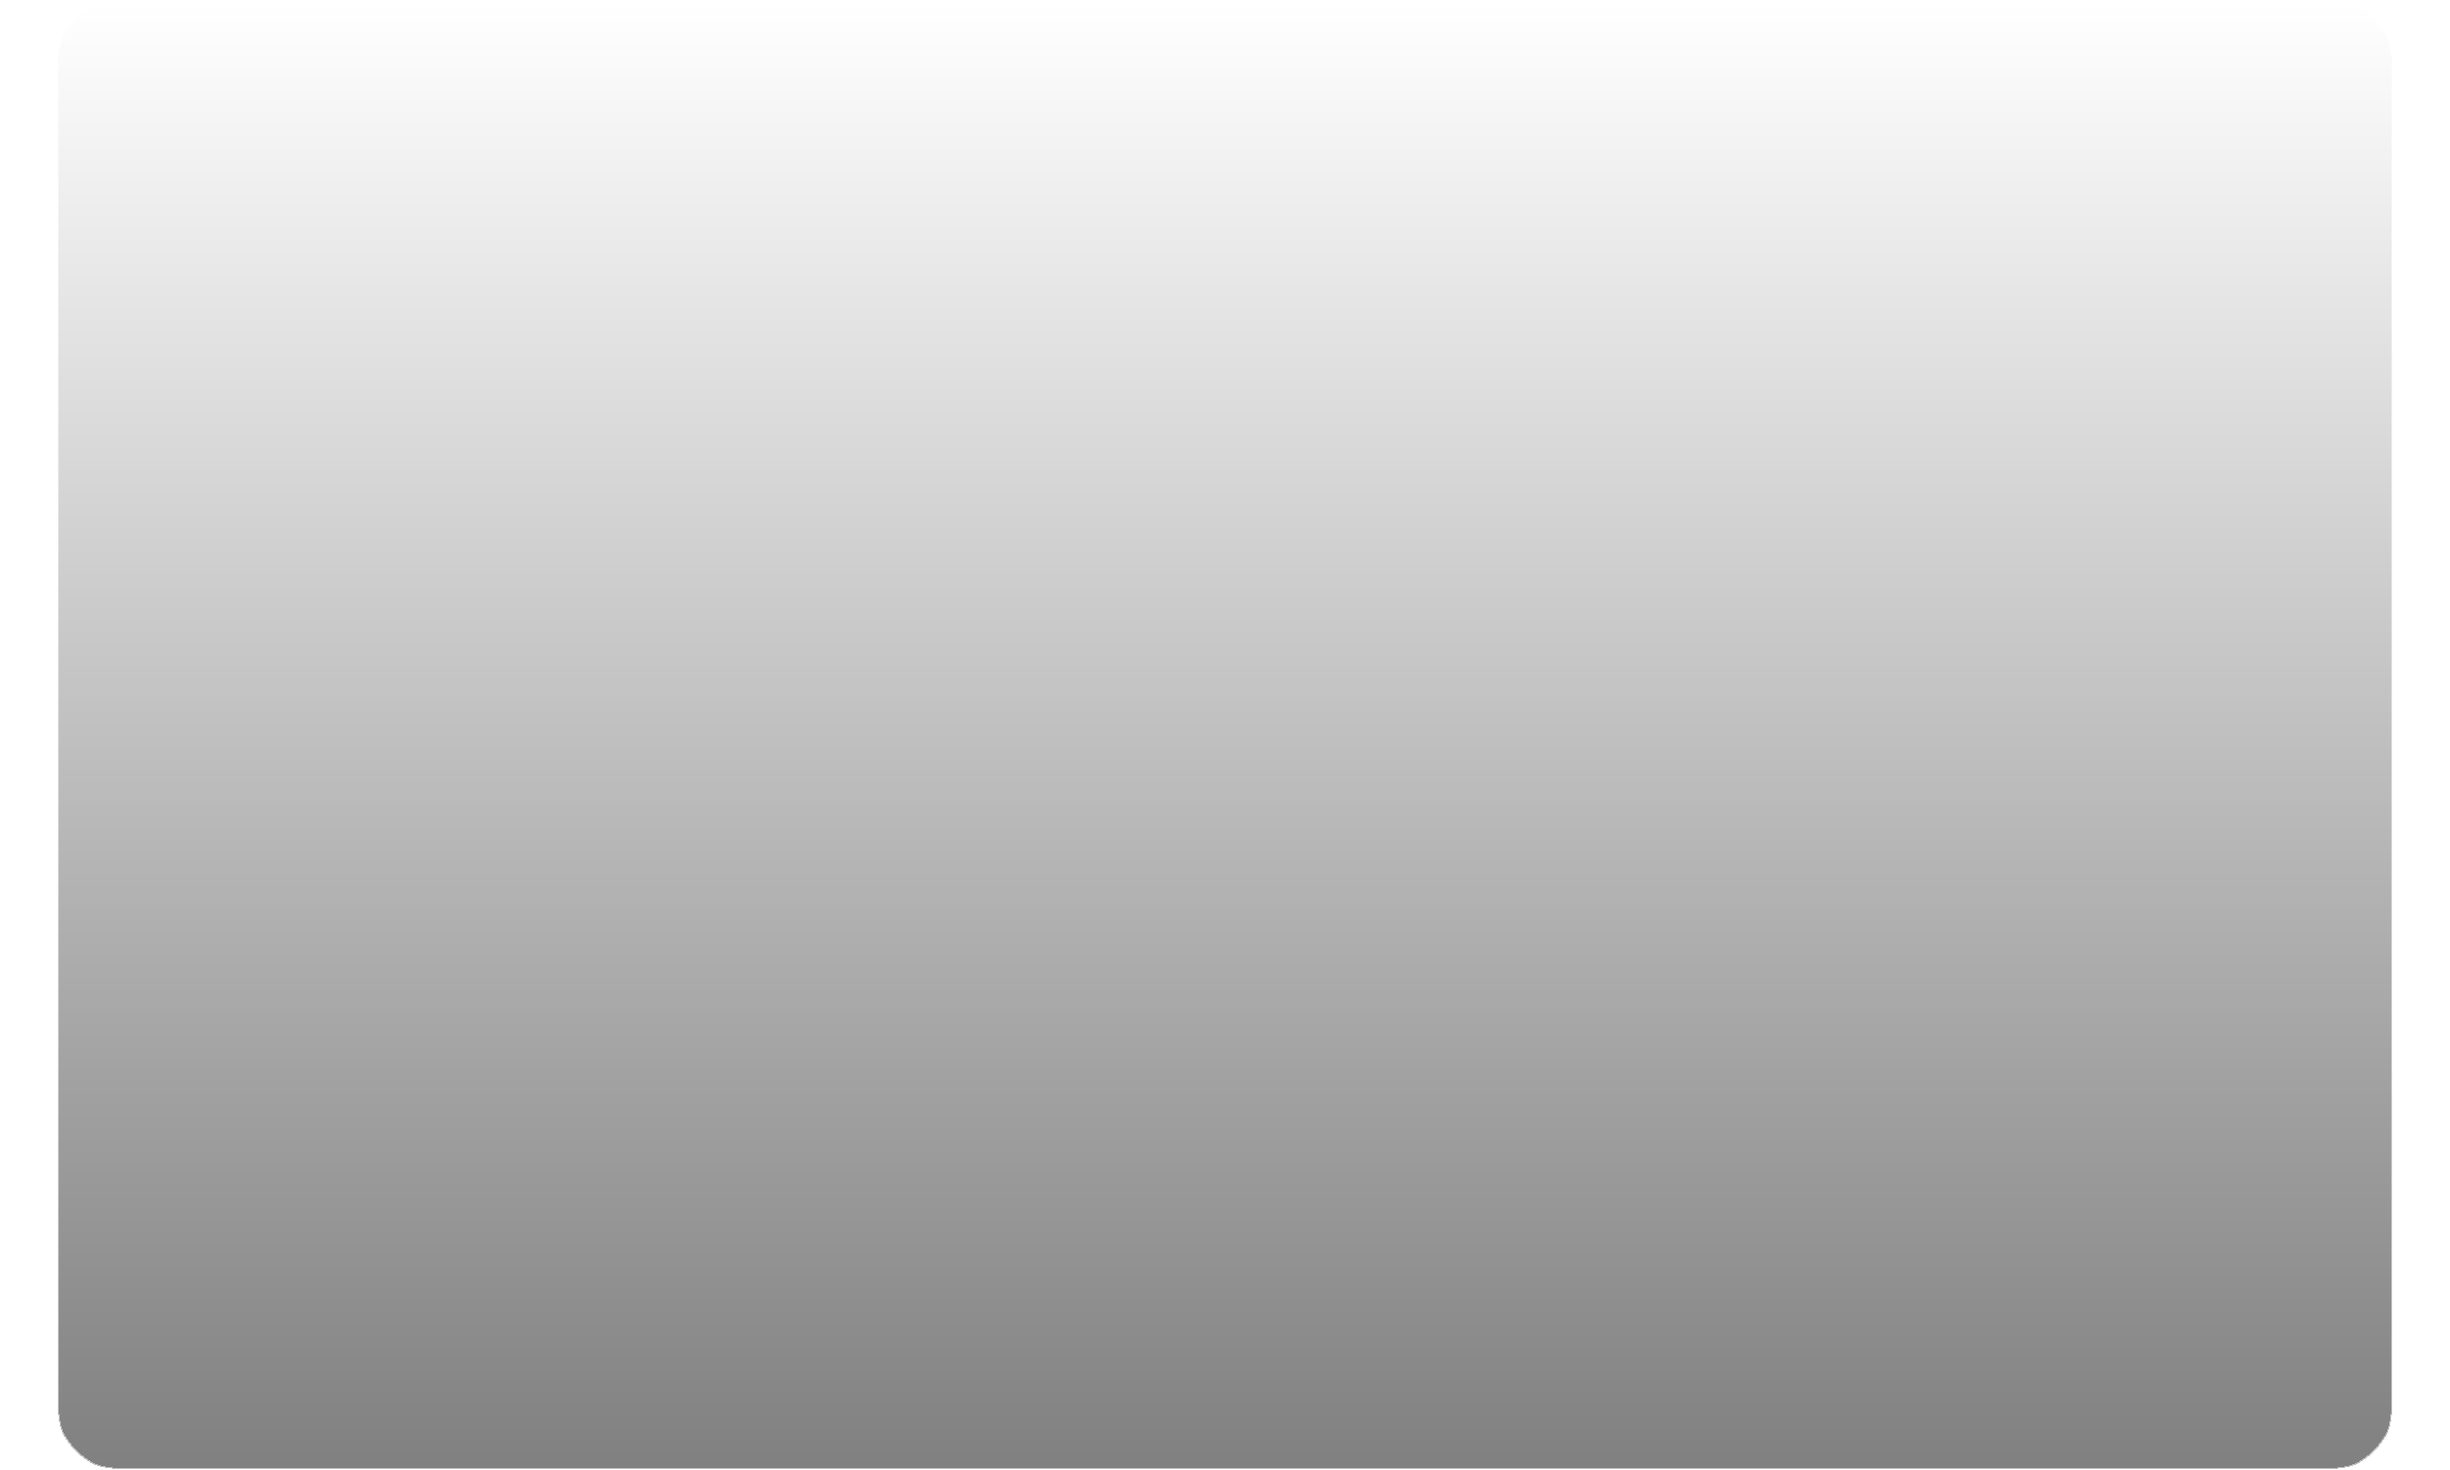
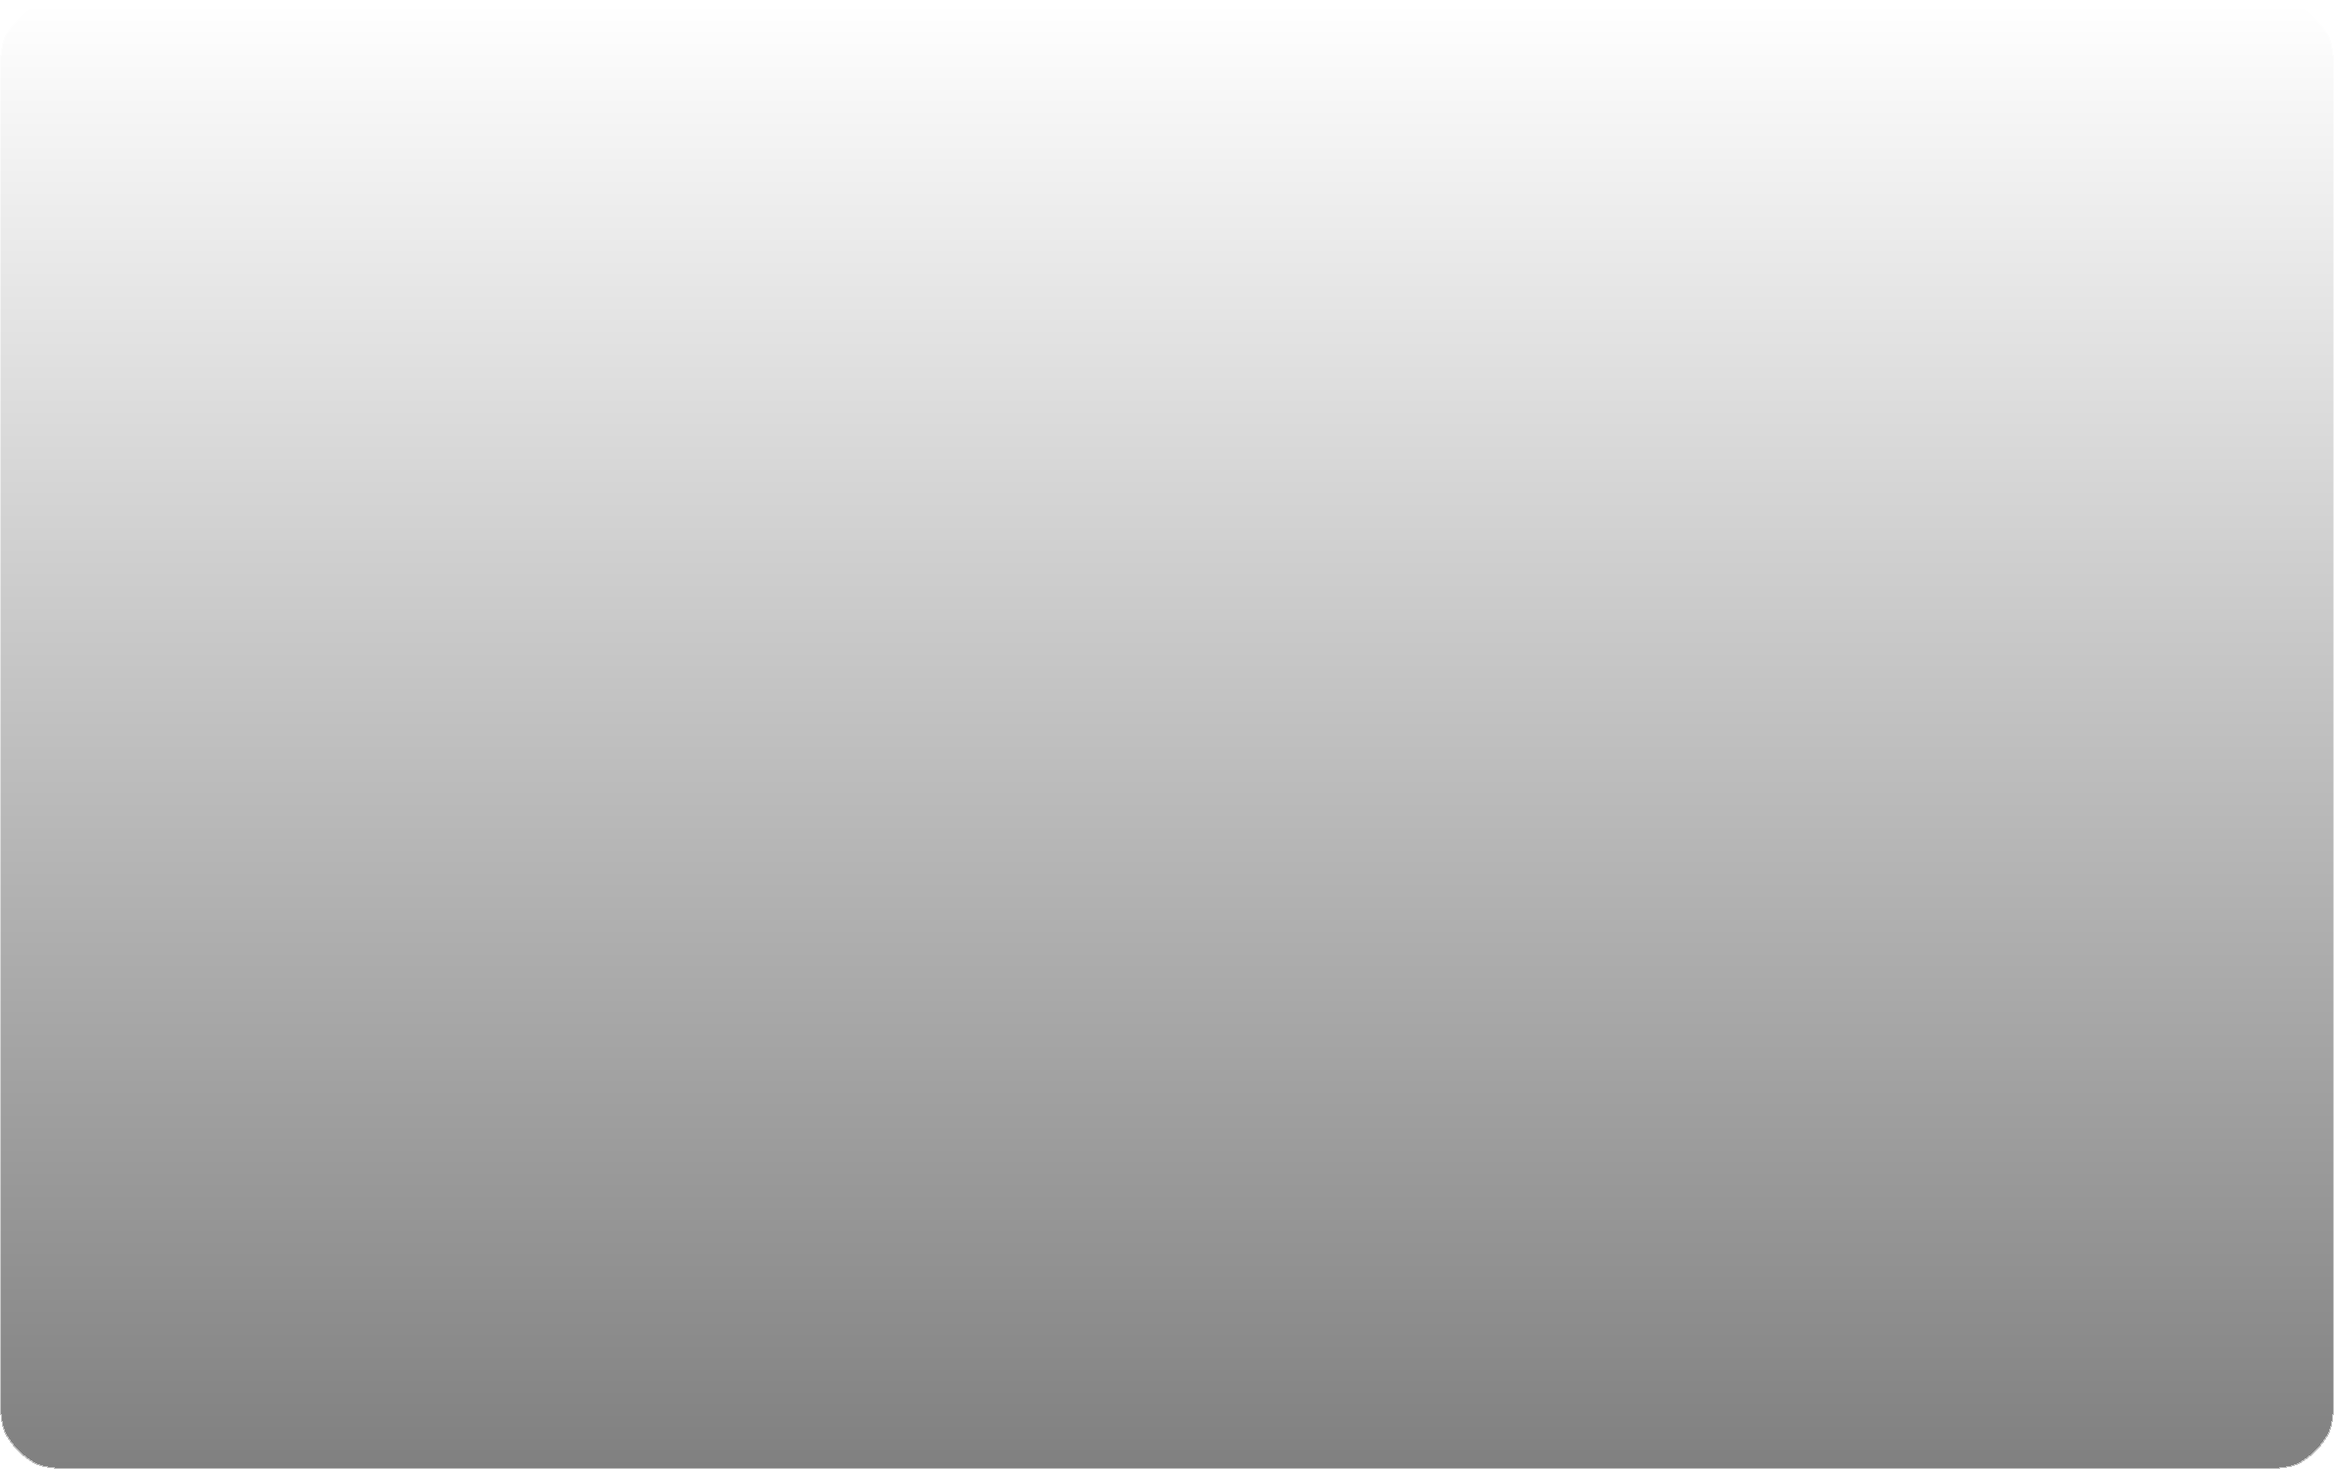
Frame. VK API.

Changed region(s): [[0.9631, 0.184, 1.0, 1.0], [0.0, 0.184, 0.0621, 1.0]]

diff --git a/photo.py b/photo.py
@@ -1,6 +1,6 @@
-from PIL import Image, ImageFont, ImageDraw
-
 import sys
+
+from PIL import Image, ImageFont, ImageDraw
 
 
 def mass_media_old(template, background, text, width, height):
@@ -49,7 +49,7 @@ def mass_media_wylsa(template, background, text, width, height):
 
 	font = ImageFont.truetype('fonts/Roboto Medium.ttf', 72)
 	text_w, text_h = draw.textsize(tag, font=font)
-	draw.text((58 + 157, height - 383), tag, font=font, fill='#fff')
+	draw.text((157, height - 383), tag, font=font, fill='#fff')
 
 	# Время
 
@@ -57,18 +57,23 @@ def mass_media_wylsa(template, background, text, width, height):
 		tim = text[last+1:].lower().strip()
 
 		font = ImageFont.truetype('fonts/Arial.ttf', 58)
-		draw.text((58 + 194 + text_w, height - 369), '•', font=font, fill='#fff')
+		draw.text((194 + text_w, height - 369), '•', font=font, fill='#fff')
 
 		font = ImageFont.truetype('fonts/Roboto Normal.ttf', 65)
-		draw.text((58 + 246 + text_w, height - 377), tim, font=font, fill='#fff')
+		draw.text((246 + text_w, height - 377), tim, font=font, fill='#fff')
 
 	# Заголовок
 
 	font = ImageFont.truetype('fonts/Roboto Medium.ttf', 95)
 	text_w, text_h = draw.textsize(text[:first], font=font)
-	draw.text((58 + 157, height - 260), text[:first].strip(), font=font, fill='#fff')
+	draw.text((157, height - 260), text[:first].strip(), font=font, fill='#fff')
 
-	return background
+	# Рамка
+
+	canvas = Image.new('RGBA', (template.size[0] + 160, template.size[1] + 80), (255, 255, 255, 255))
+	canvas.paste(background, (80, 40))
+
+	return canvas
 
 PROCESS = (mass_media_old, instagram, mass_media_wylsa)
 

diff --git a/func/vk_group.py b/func/vk_group.py
@@ -8,7 +8,7 @@ import requests
 with open('keys.json', 'r') as file:
 	data = json.loads(file.read())['vk']
 
-	vk = vk_api.VkApi(token=data['token'])
+vk = vk_api.VkApi(token=data['token'])
 
 
 def max_size(lis, name='photo'):
@@ -31,7 +31,7 @@ def max_size(lis, name='photo'):
 
 
 # Отправить сообщение
-def send(user, cont, img=[]):
+def send(user, cont, img=[], keyboard=None):
 	# Изображения
 	for i in range(len(img)):
 		if img[i][0:5] != 'photo':
@@ -52,10 +52,32 @@ def send(user, cont, img=[]):
 			img[i] = 'photo{}_{}'.format(photo[0]['owner_id'], photo[0]['id'])
 
 	req = {
+		'random_id': int(time.time() * 1000000),
 		'user_id': user,
 		'message': cont,
 		'attachment': ','.join(img),
 	}
+
+	# Клавиатура
+	if keyboard:
+		buttons = []
+		for j in keyboard:
+			line = []
+			for i in j:
+				line.append({
+					'action': {
+						'type': 'text',
+						'payload': '{\"button\": \"1\"}',
+						'label': i,
+					},
+					'color': 'default',
+				})
+			buttons.append(line)
+
+		req['keyboard'] = json.dumps({
+			'one_time': False,
+			'buttons': buttons,
+		}, ensure_ascii=False)
 
 	return vk.method('messages.send', req)
 

diff --git a/main.py b/main.py
@@ -1,14 +1,19 @@
-from func.vk_group import *
-from photo import paste
-
 import time
+
+import requests
+
+from func.vk_group import read, send
+from photo import paste
 
 
 while True:
 	try:
 		new_message = read()
+
 	except:
+		print('Ошибка чтения!')
 		time.sleep(5)
+
 	else:
 		for i in new_message:
 			if len(i[2]):
@@ -22,10 +27,12 @@ while True:
 					image[-1] = paste(image[-1], i[1], 3 if '#' in i[1] else 2)
 
 				print(i[1])
+
 				try:
 					send(i[0], '', image)
+
 				except:
-					print('Error!')
+					print('Ошибка отправки!')
 					time.sleep(1)
 
 	time.sleep(1)
